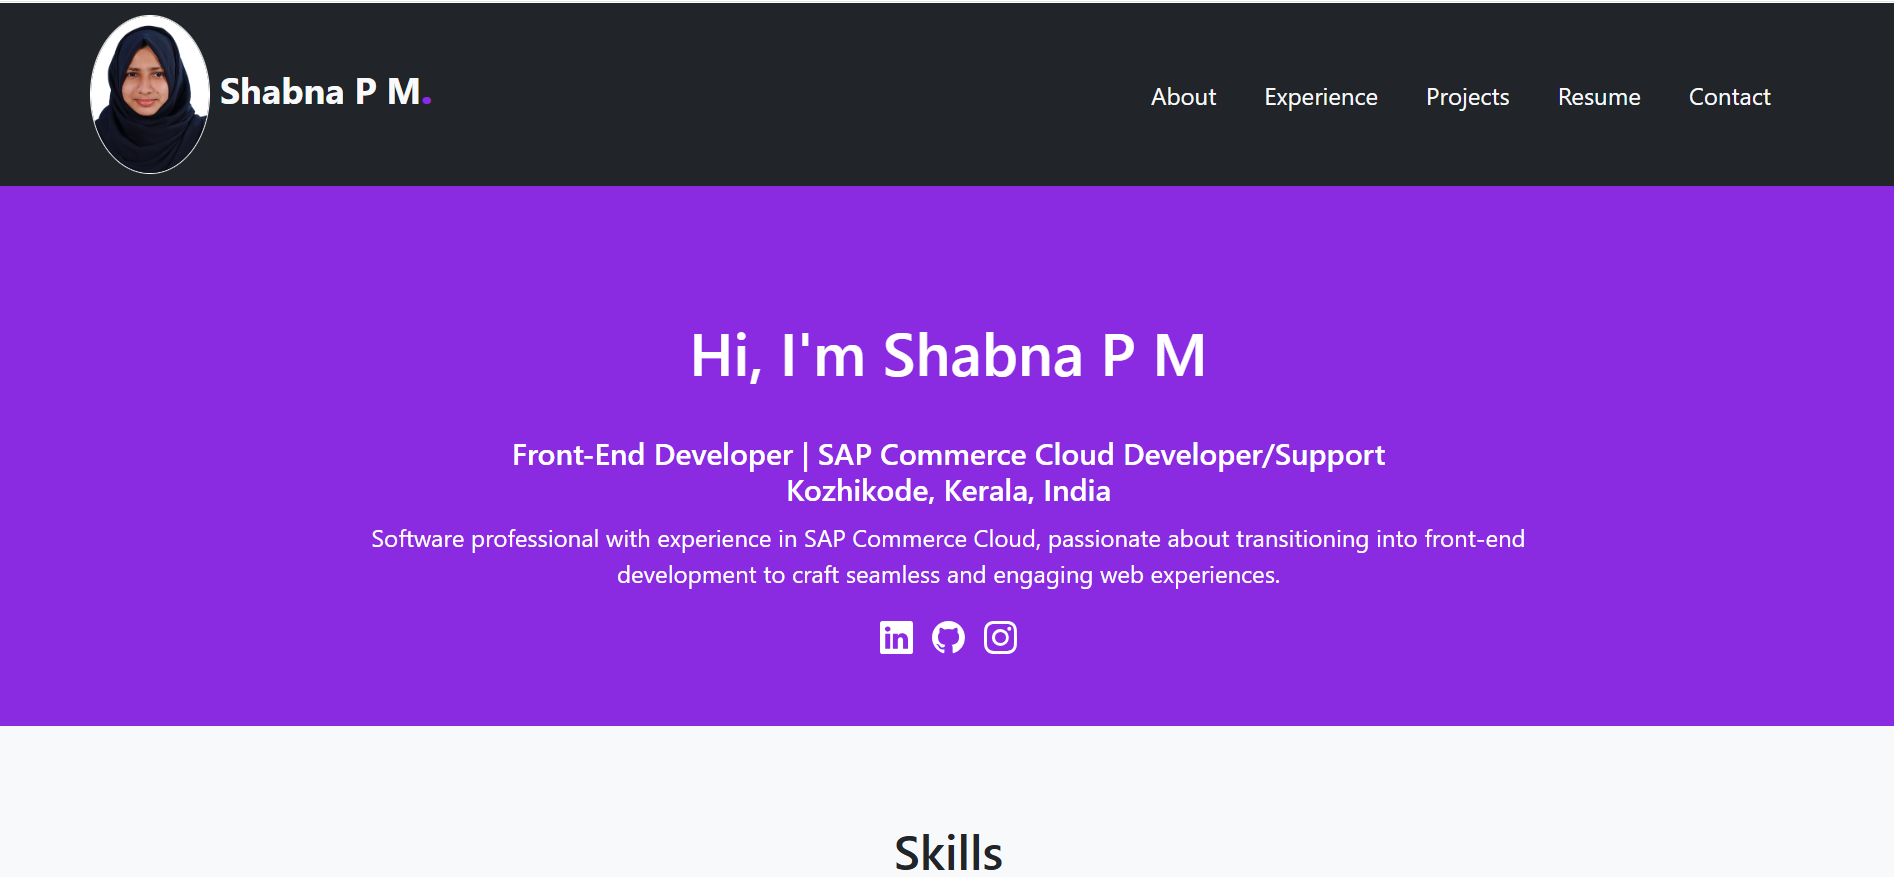
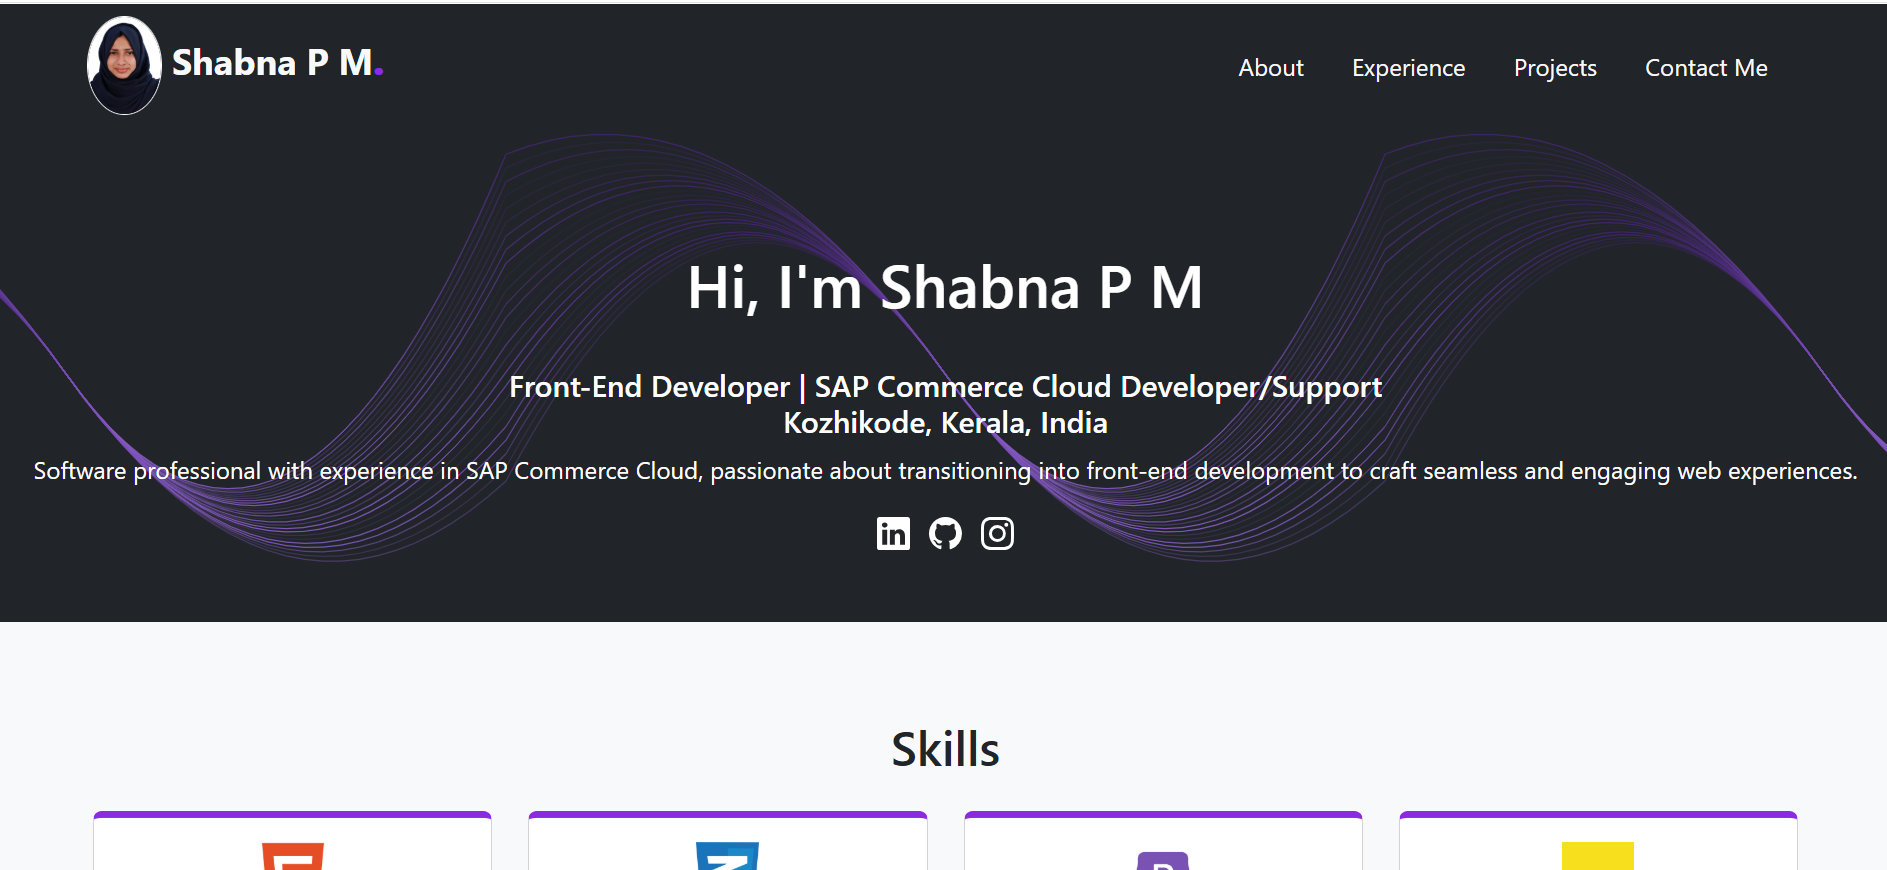
New Update

diff --git a/index.html b/index.html
@@ -22,6 +22,22 @@
        .card{
         border-top: solid 0.3em blueviolet;
        }
+
+       #about{
+        background:url('media/bg.svg');
+        /* background-size: contain; */
+        background-size: auto 100%;
+        /* background-size: auto;*/
+        background-position: center;
+        padding-top: 5em;
+          /* min-height: 75vh; */
+       }
+       @media (max-width:634px) { 
+        #about{
+          /* background-size: contain; */
+          background-repeat: no-repeat;
+        }
+        } 
     </style>
 </head>
 <body style="box-sizing: border-box;" id="portfolio" class="bg-dark">
@@ -66,7 +82,7 @@
 
     <!-- About me section -->
 
-    <section id="about" class="pb-5 text-white bg-dark" style="background-image:url('media/bg.svg');padding-top: 5em;">
+    <section id="about" class="pb-5 text-white bg-dark">
       <div class="align-items-center text-center">
         <h1 class="pb-4">Hi, I'm Shabna P M</h1>
         <h5>Front-End Developer | SAP Commerce Cloud Developer/Support<br>
@@ -177,7 +193,7 @@
 
     <!-- Experience section -->
 
-    <section id="experience" class="bg-light border-bottom p-5">
+    <section id="experience" class="bg-light border-bottom pt-5 pb-5">
       <div class="container-fluid align-items-center">
         <h2 class="text-center pb-3">Experience</h2>
         <div class="container">
@@ -241,14 +257,14 @@
 
   <!-- Contact me section -->
 
-    <section id="contactme" class="bg-light border-bottom p-5">
+    <section id="contactme" class="bg-light border-bottom pt-5 pb-5">
       <!-- for sending email i have used Web3Forms -->
       <h2 class="text-center pb-3">Contact Me</h2>
       <p class="text-center">If you would like a copy of my resume, please fill the form.</p>
       <div class="container align-items-center">
         <div class="row justify-content-center">
           <div class="col-12 col-md-6 ">
-            <form class="bg-white p-5 rounded" id="contactForm" action="https://api.web3forms.com/submit" method="POST">
+            <form class="bg-white p-3 p-md-5 rounded" id="contactForm" action="https://api.web3forms.com/submit" method="POST">
               <input type="hidden" name="access_key" value="49f9e259-c8ec-47d2-a53b-cbe3ebc9cd22">
               <input type="hidden" name="recaptcha" value="true">
               <input type="text" name="hp" style="display: none;">
